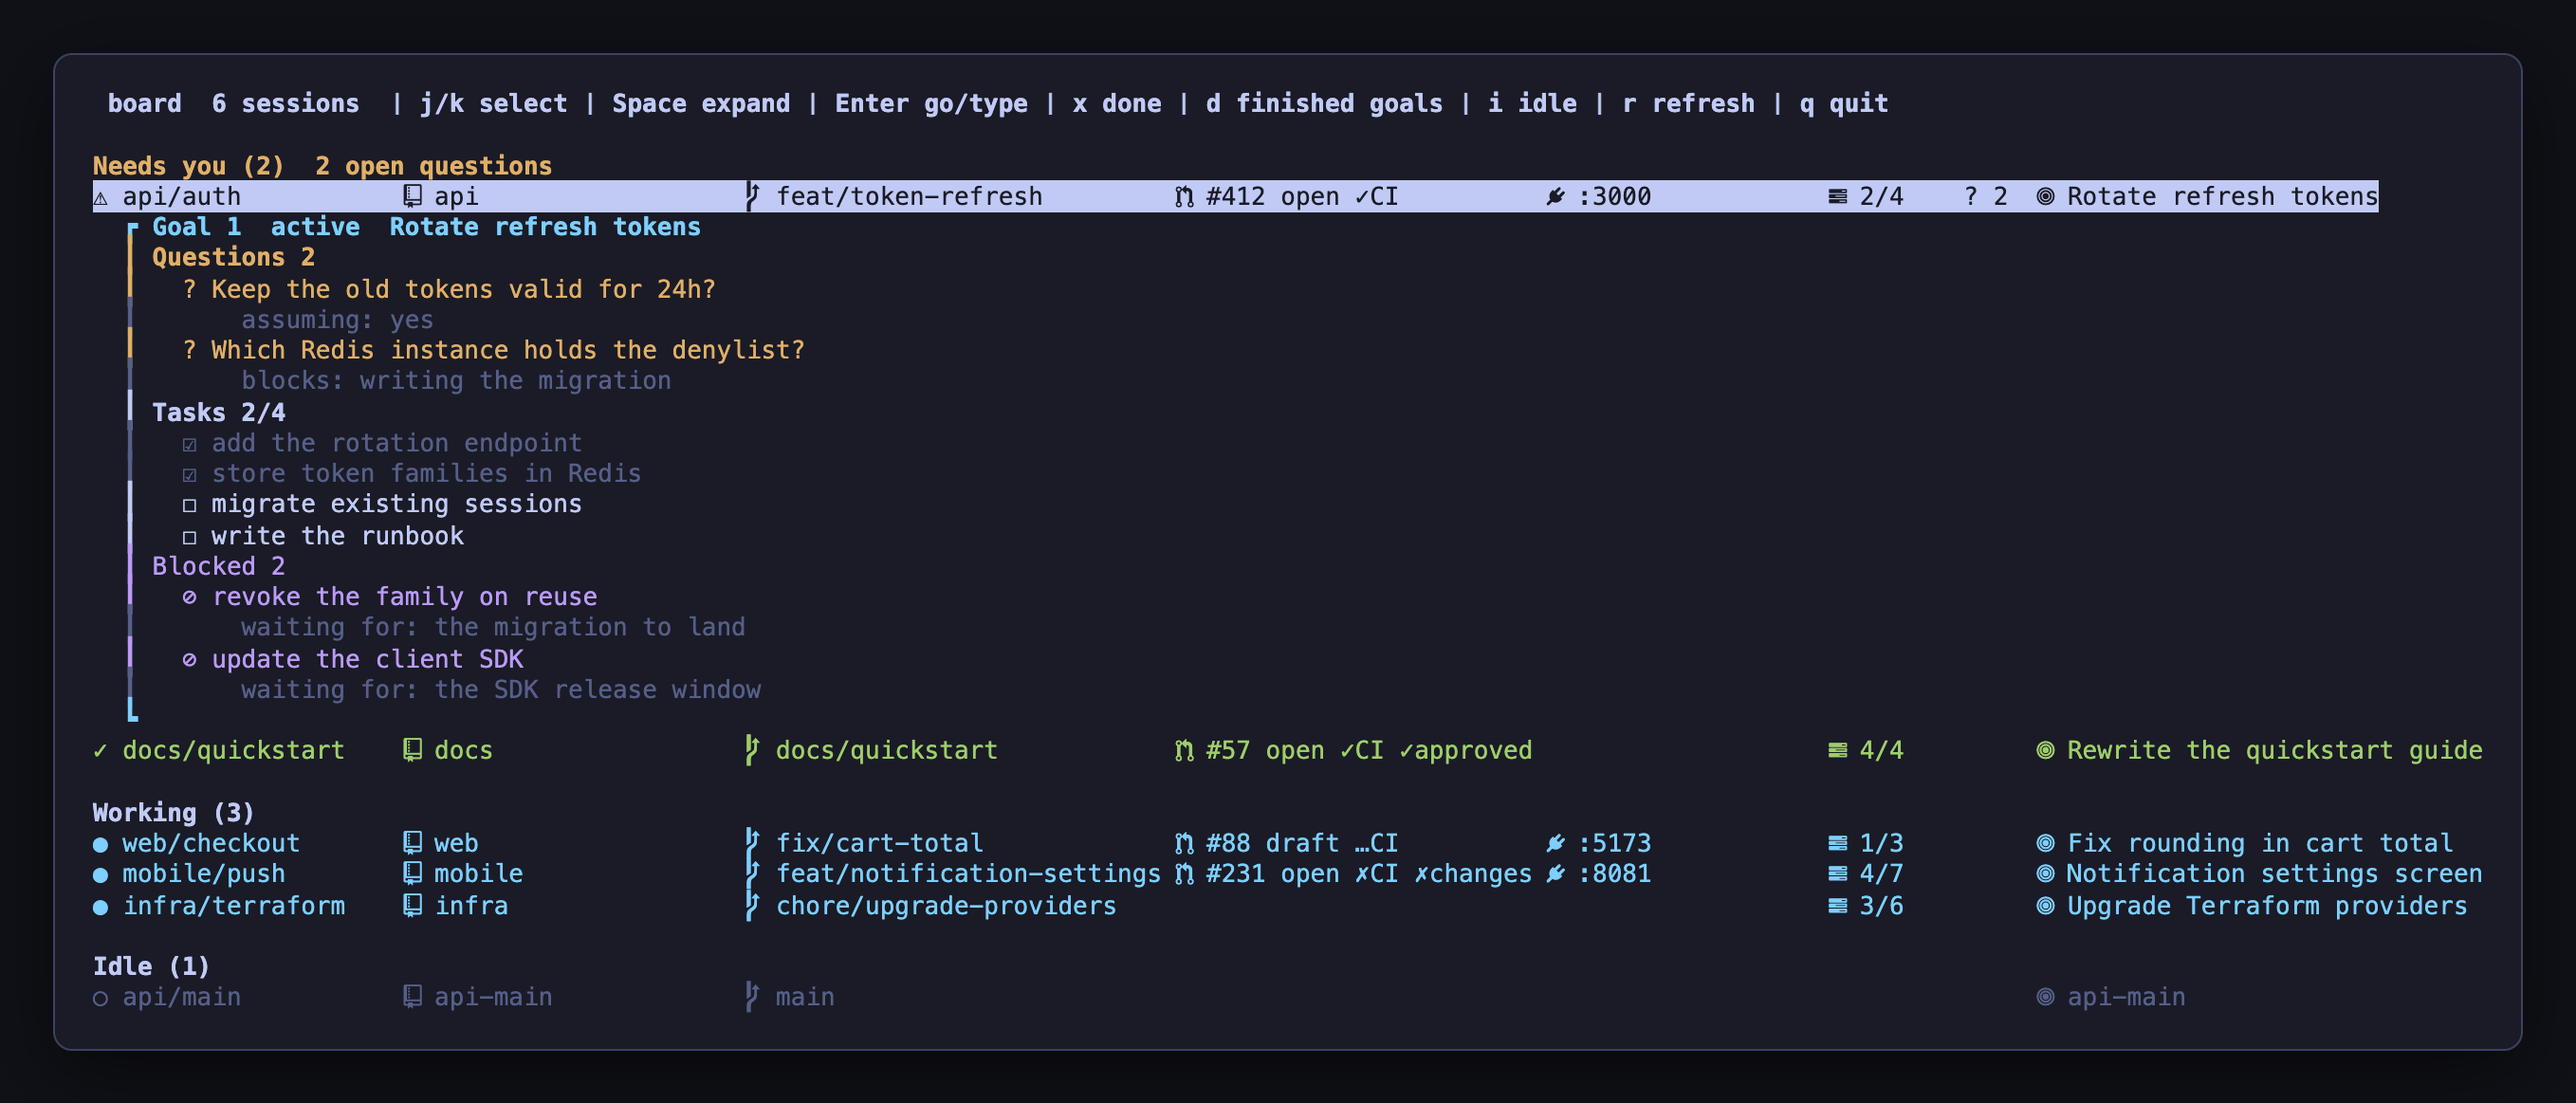
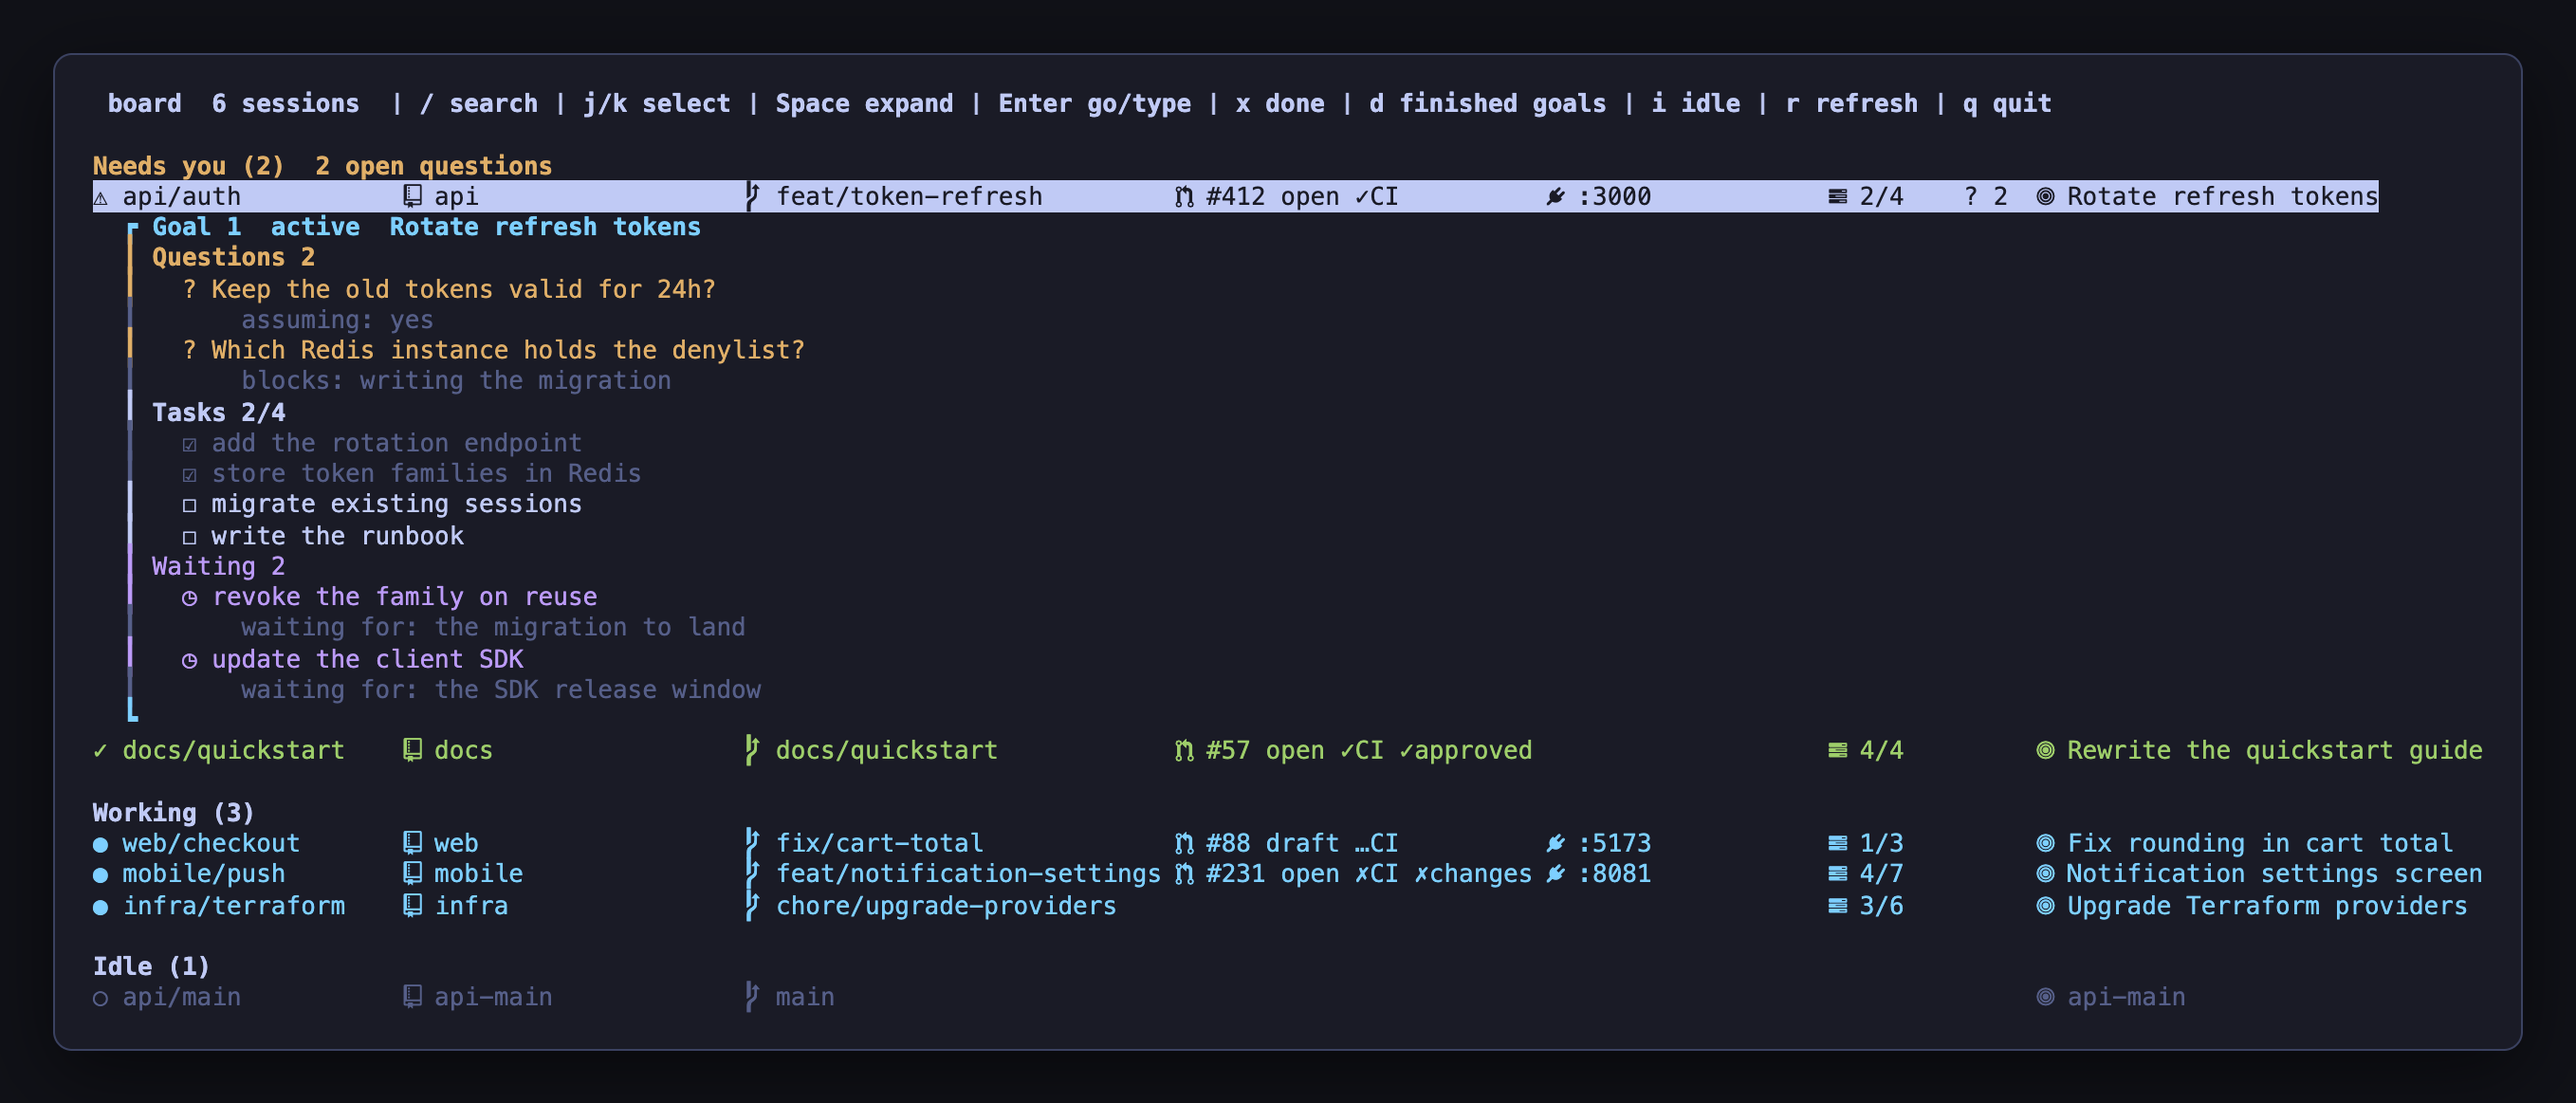
feat: rename blocked work to waiting and keep user waits out of it (#5)

Changed region(s): [[0.1546, 0.0619, 0.7423, 0.1238], [0.7732, 0.0929, 0.8041, 0.1238], [0.0619, 0.4953, 0.0928, 0.5262]]

diff --git a/README.md b/README.md
@@ -2,12 +2,12 @@
 
 A herdr popup that lists every agent session on one screen, ordered by who needs you.
 
-![The board popup: one session expanded with its questions, tasks and blocked work, the others on one line each](docs/screenshot.png)
+![The board popup: one session expanded with its questions, tasks and waiting work, the others on one line each](docs/screenshot.png)
 
 Two kinds of information are shown:
 
 - **Collected automatically**: agent status, workspace/tab, repository, branch, pull request (state, CI, review) and listening ports.
-- **Written by the agents**: goals, tasks, blocked work and open questions, through the bundled `herdr-board` command.
+- **Written by the agents**: goals, tasks, waiting work and open questions, through the bundled `herdr-board` command.
 
 The second part is what makes it useful with many sessions. Each agent writes its questions down instead of only asking them in its own pane, so nothing is lost when several sessions are waiting for you at once.
 
@@ -52,8 +52,8 @@ The plugin directory can move when you run `herdr plugin update`. If `herdr-boar
 | `j` / `k`, arrows | Move the selection |
 | `Space` | Expand or collapse the selected session |
 | `Enter` on a session | Focus that agent and close the popup |
-| `Enter` on a question, task or blocked item | Type it into that agent's prompt (not submitted) and focus the agent |
-| `x` | Mark the selected task, question or blocked item done / not done |
+| `Enter` on a question, task or waiting item | Type it into that agent's prompt (not submitted) and focus the agent |
+| `x` | Mark the selected task, question or waiting item done / not done |
 | `d` | Show the last finished goals of expanded sessions |
 | `i` | Show or hide idle sessions |
 | `r` | Refresh git, pull request and port information now |
@@ -74,7 +74,7 @@ Run `herdr-board` for the command list and `herdr-board show` for the current no
 
 - **Goals**: if a request continues the current goal, add tasks to it; if it is a different topic, add a goal with `goal add`. Do not create a goal for something that takes one or two tool calls.
 - **Tasks**: before starting, split the work into 3–7 tasks with `task add`, and run `task done` as each one finishes.
-- **Blocked**: work that cannot start yet because it waits for something other than the user (another task, a merge, a deploy, someone else) goes in with `block` and what it waits for, not with `task add`. When the wait is over, `unblock` turns it into a task. Waiting for the user's answer is a question, not this.
+- **Waiting**: work that cannot start yet because it waits for something other than the user (another task, a merge, a deploy, someone else) goes in with `wait` and what it waits for, not with `task add`. When the wait is over, `unwait` turns it into a task. Waiting for the user's answer or OK is a question (`ask`), never `wait`.
 - **Questions**: write a question with `ask` before asking the user. Keep working on whatever does not depend on the answer. Use `--assume` when you proceed on an assumption and `--blocks` when some work cannot proceed. Stop only when everything is waiting. Record the reply with `answer`.
 - **Finishing**: when all tasks and questions are settled, run `goal done`; if the goal is abandoned, `goal drop`.
 - If `herdr-board` is missing or fails, carry on without it.
@@ -91,14 +91,18 @@ herdr-board goal done <g> "<result>"          finished (moved to the archive fil
 herdr-board goal drop <g> "<reason>"          abandoned (moved to the archive file)
 herdr-board task add <g> "<task>"
 herdr-board task done <g> <n>
-herdr-board block <g> "<work>" "<what it waits for>"   work that cannot start yet
-herdr-board unblock <g> <n>                   the wait is over; it becomes a task
+herdr-board wait <g> "<work>" "<what it waits for>"
+                                              work that waits for something other than the user
+                                              (a merge, a deploy, another task, someone else)
+herdr-board unwait <g> <n>                    the wait is over; it becomes a task
 herdr-board ask <g> "<question>" [--assume "<working assumption>"] [--blocks "<work that is waiting>"]
 herdr-board answer <g> <n> "<answer>"
 herdr-board path
 ```
 
 The session is taken from `CLAUDE_CODE_SESSION_ID`, or from the agent session herdr reports for the current pane. `--session <id>` overrides both.
+
+Waiting for the user's answer or OK is a question (`ask`), not `wait`. The board shows open questions under "Needs you"; waiting work is only listed inside its goal.
 
 ## Where the notes live
 
